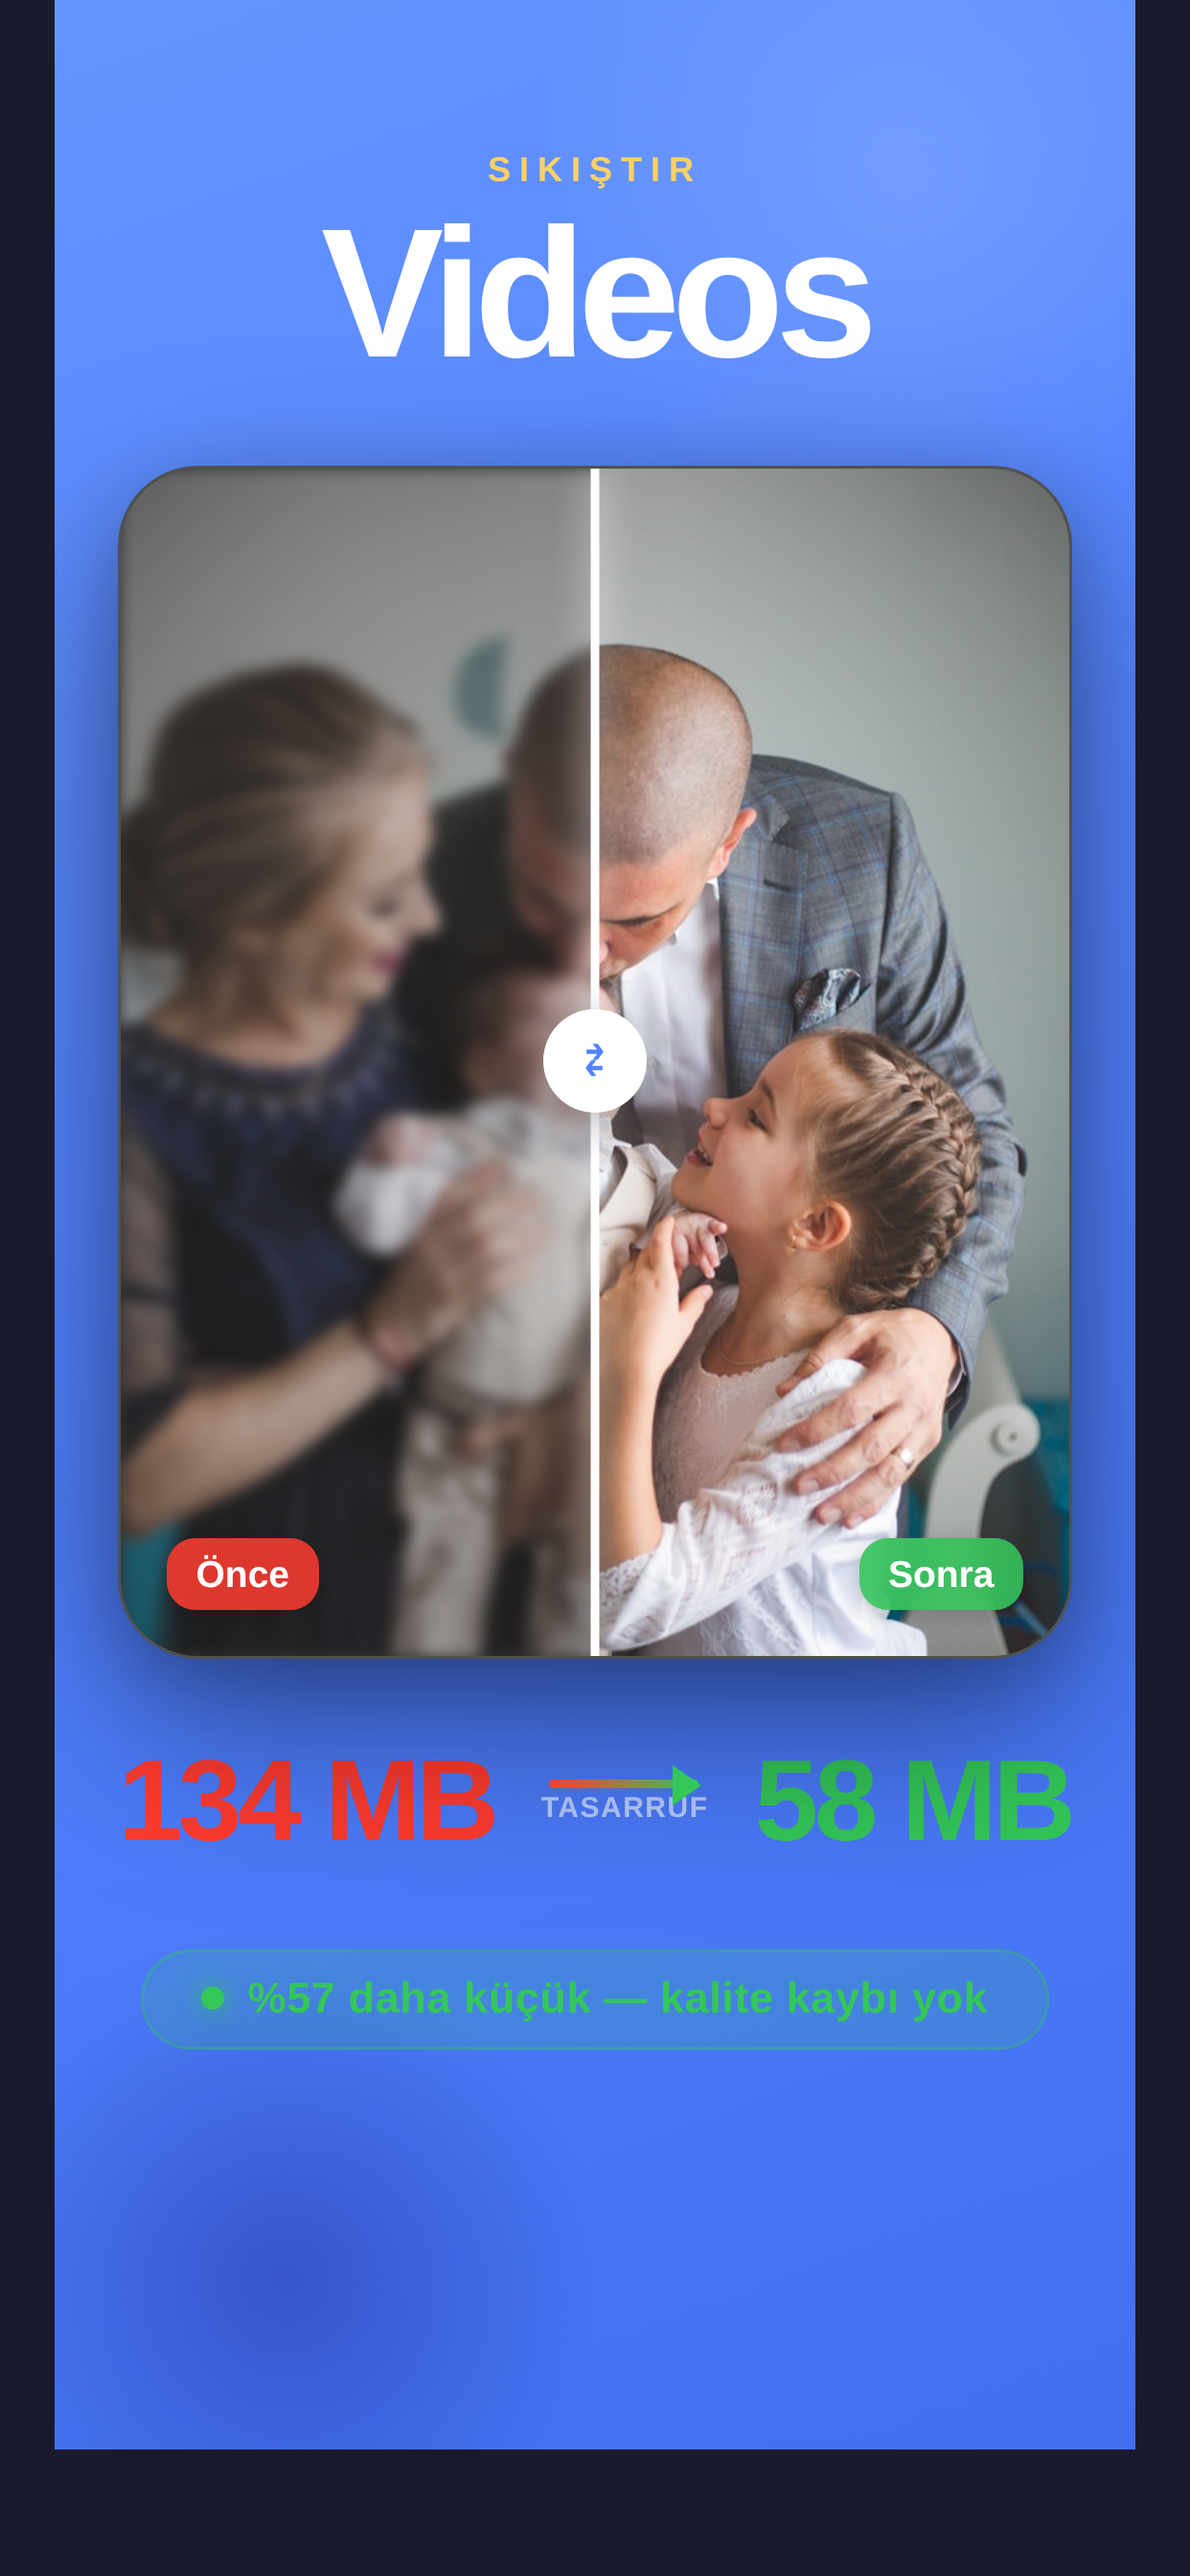
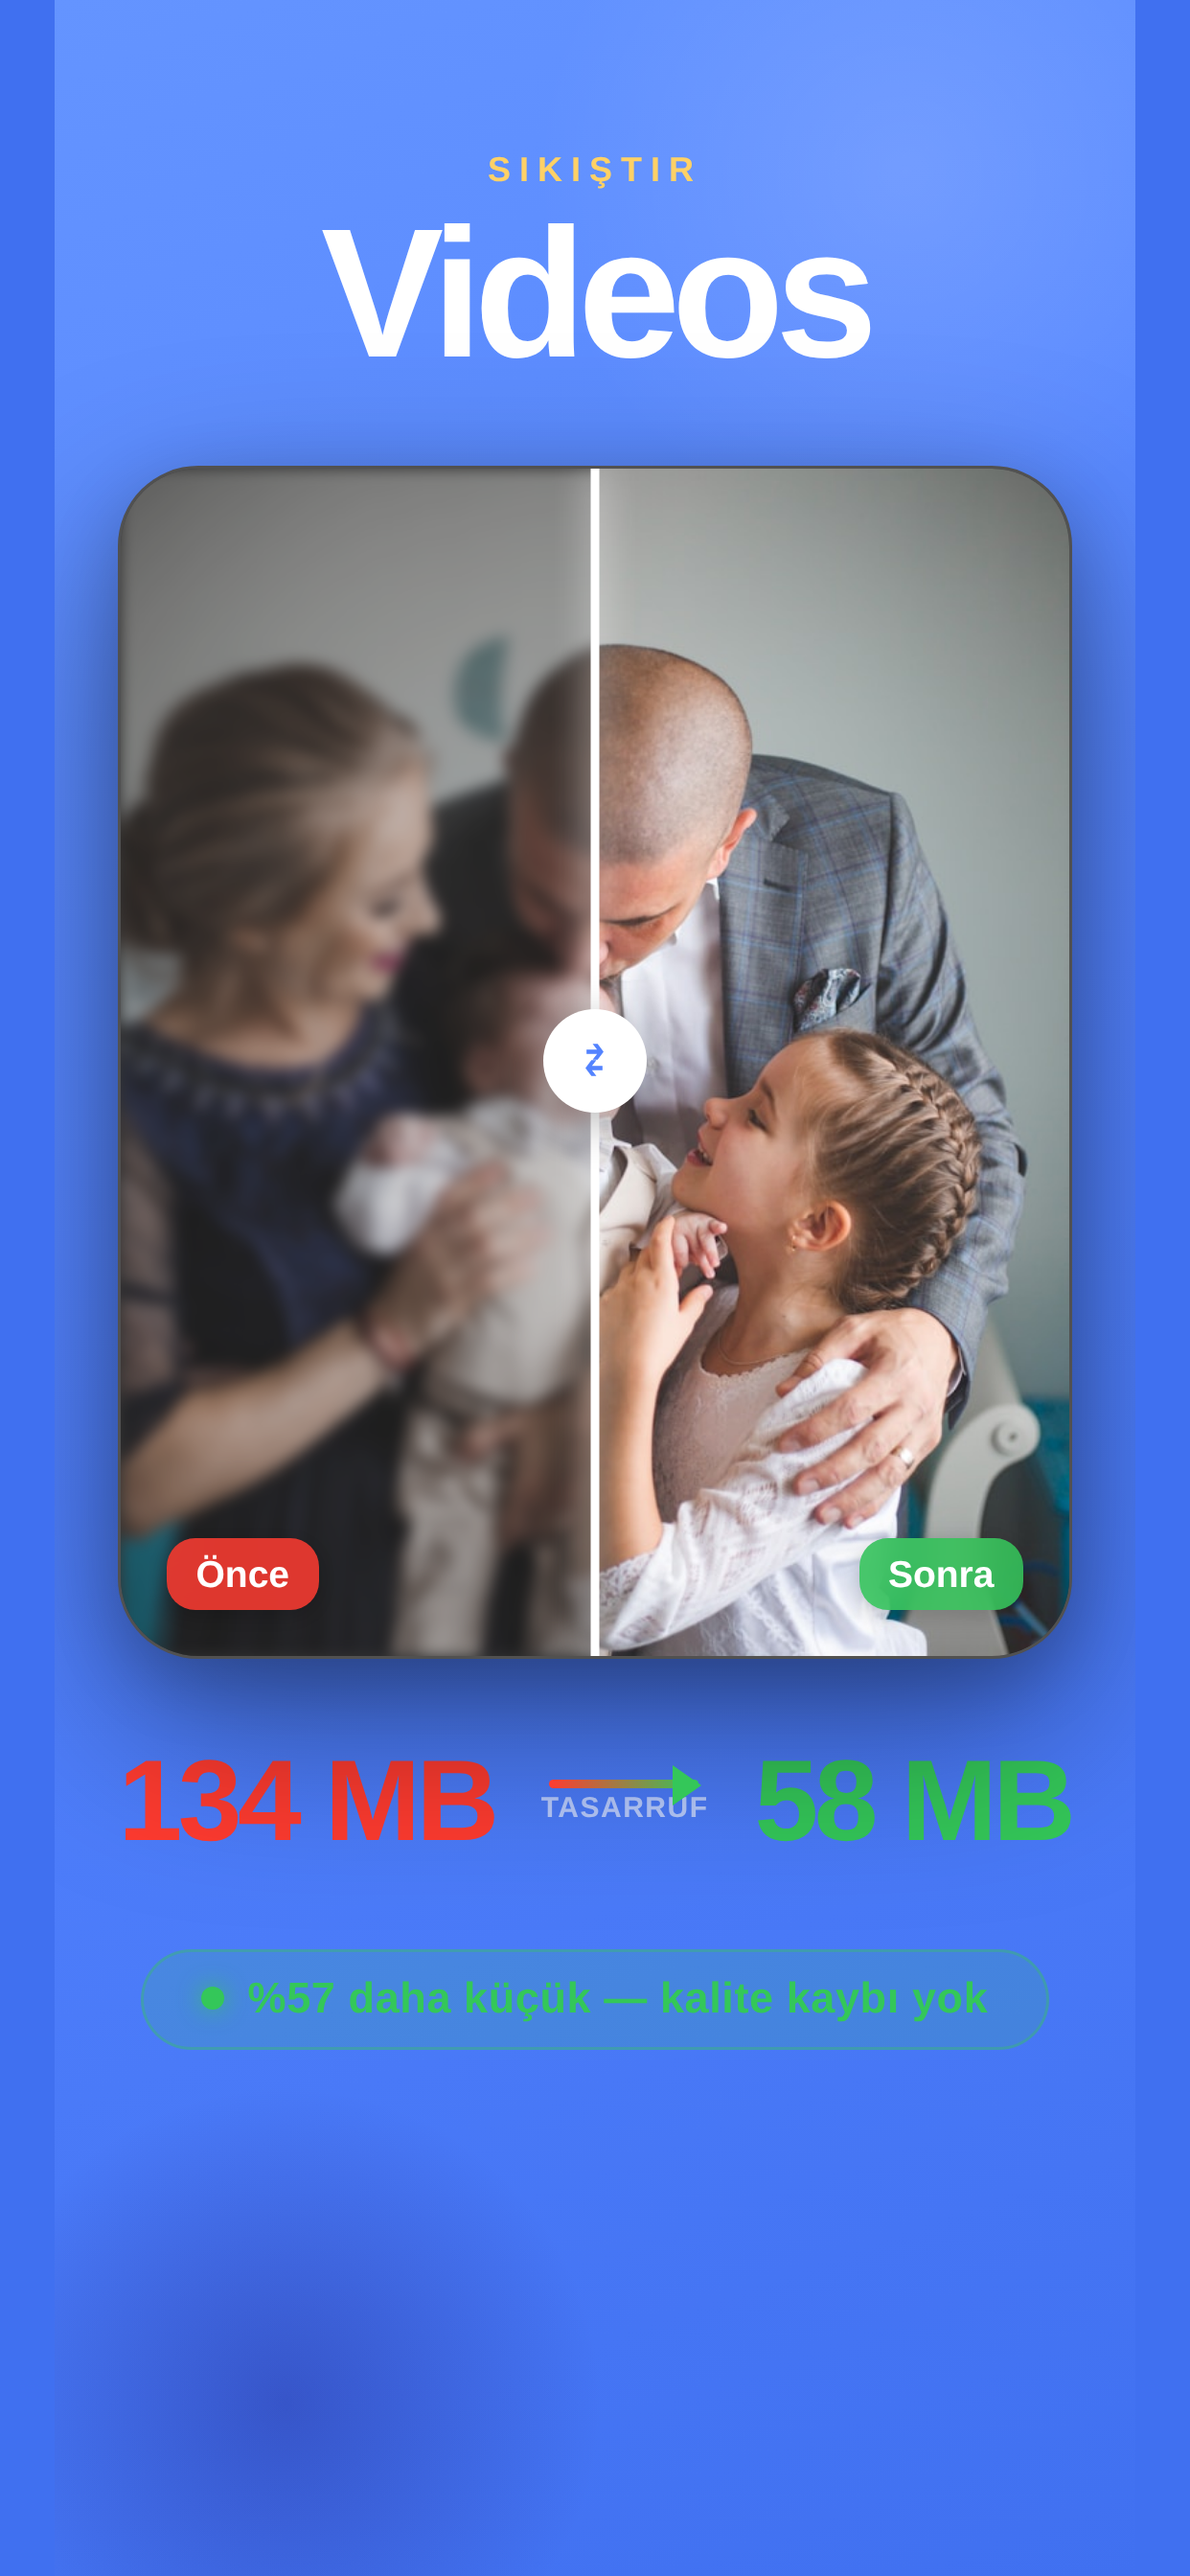
fix: schwarze Balken — body background auf #4070f0 + min-height: 100vh, alle 15 Slides neu gerendert

Changed region(s): [[0.0, 0.0, 1.0, 1.0]]

diff --git a/frontend/assets/screenshot_slide4.html b/frontend/assets/screenshot_slide4.html
@@ -6,12 +6,12 @@
 <style>
   *, *::before, *::after { margin:0; padding:0; box-sizing:border-box; }
   html, body {
-    background: #1a1a2e;
+    background: #4070f0;
     display: flex; justify-content: center;
-    min-height: 852px;
+    min-height: 100vh;
   }
   .phone {
-    width: 100%; min-height: 852px;
+    width: 100%; min-height: 100vh;
     background: linear-gradient(160deg, #6494ff 0%, #5383ff 45%, #4070f0 100%);
     position: relative; overflow: hidden;
     font-family: -apple-system, 'SF Pro Display', 'Helvetica Neue', sans-serif;

diff --git a/frontend/assets/screenshot_slide4_en.html b/frontend/assets/screenshot_slide4_en.html
@@ -6,12 +6,12 @@
 <style>
   *, *::before, *::after { margin:0; padding:0; box-sizing:border-box; }
   html, body {
-    background: #1a1a2e;
+    background: #4070f0;
     display: flex; justify-content: center;
-    min-height: 852px;
+    min-height: 100vh;
   }
   .phone {
-    width: 100%; min-height: 852px;
+    width: 100%; min-height: 100vh;
     background: linear-gradient(160deg, #6494ff 0%, #5383ff 45%, #4070f0 100%);
     position: relative; overflow: hidden;
     font-family: -apple-system, 'SF Pro Display', 'Helvetica Neue', sans-serif;

diff --git a/frontend/assets/screenshot_slide4_tr.html b/frontend/assets/screenshot_slide4_tr.html
@@ -6,12 +6,12 @@
 <style>
   *, *::before, *::after { margin:0; padding:0; box-sizing:border-box; }
   html, body {
-    background: #1a1a2e;
+    background: #4070f0;
     display: flex; justify-content: center;
-    min-height: 852px;
+    min-height: 100vh;
   }
   .phone {
-    width: 100%; min-height: 852px;
+    width: 100%; min-height: 100vh;
     background: linear-gradient(160deg, #6494ff 0%, #5383ff 45%, #4070f0 100%);
     position: relative; overflow: hidden;
     font-family: -apple-system, 'SF Pro Display', 'Helvetica Neue', sans-serif;

diff --git a/frontend/assets/screenshot_slide5.html b/frontend/assets/screenshot_slide5.html
@@ -6,12 +6,12 @@
 <style>
   *, *::before, *::after { margin:0; padding:0; box-sizing:border-box; }
   html, body {
-    background: #1a1a2e;
+    background: #4070f0;
     display: flex; justify-content: center;
-    min-height: 852px;
+    min-height: 100vh;
   }
   .phone {
-    width: 100%; min-height: 852px;
+    width: 100%; min-height: 100vh;
     background: linear-gradient(160deg, #6494ff 0%, #5383ff 45%, #4070f0 100%);
     position: relative; overflow: hidden;
     font-family: -apple-system, 'SF Pro Display', 'Helvetica Neue', sans-serif;

diff --git a/frontend/assets/screenshot_slide5_en.html b/frontend/assets/screenshot_slide5_en.html
@@ -6,12 +6,12 @@
 <style>
   *, *::before, *::after { margin:0; padding:0; box-sizing:border-box; }
   html, body {
-    background: #1a1a2e;
+    background: #4070f0;
     display: flex; justify-content: center;
-    min-height: 852px;
+    min-height: 100vh;
   }
   .phone {
-    width: 100%; min-height: 852px;
+    width: 100%; min-height: 100vh;
     background: linear-gradient(160deg, #6494ff 0%, #5383ff 45%, #4070f0 100%);
     position: relative; overflow: hidden;
     font-family: -apple-system, 'SF Pro Display', 'Helvetica Neue', sans-serif;

diff --git a/frontend/assets/screenshot_slide5_tr.html b/frontend/assets/screenshot_slide5_tr.html
@@ -6,12 +6,12 @@
 <style>
   *, *::before, *::after { margin:0; padding:0; box-sizing:border-box; }
   html, body {
-    background: #1a1a2e;
+    background: #4070f0;
     display: flex; justify-content: center;
-    min-height: 852px;
+    min-height: 100vh;
   }
   .phone {
-    width: 100%; min-height: 852px;
+    width: 100%; min-height: 100vh;
     background: linear-gradient(160deg, #6494ff 0%, #5383ff 45%, #4070f0 100%);
     position: relative; overflow: hidden;
     font-family: -apple-system, 'SF Pro Display', 'Helvetica Neue', sans-serif;

diff --git a/frontend/assets/screenshot_slide2.html b/frontend/assets/screenshot_slide2.html
@@ -7,15 +7,15 @@
   *, *::before, *::after { margin:0; padding:0; box-sizing:border-box; }
 
   html, body {
-    background: #1a1a2e;
+    background: #4070f0;
     display: flex;
     justify-content: center;
-    min-height: 852px;
+    min-height: 100vh;
   }
 
   .phone {
     width: 100%;
-    min-height: 852px;
+    min-height: 100vh;
     background: linear-gradient(160deg, #6494ff 0%, #5383ff 40%, #4070f0 100%);
     position: relative;
     overflow: hidden;

diff --git a/frontend/assets/screenshot_slide2_en.html b/frontend/assets/screenshot_slide2_en.html
@@ -7,15 +7,15 @@
   *, *::before, *::after { margin:0; padding:0; box-sizing:border-box; }
 
   html, body {
-    background: #1a1a2e;
+    background: #4070f0;
     display: flex;
     justify-content: center;
-    min-height: 852px;
+    min-height: 100vh;
   }
 
   .phone {
     width: 100%;
-    min-height: 852px;
+    min-height: 100vh;
     background: linear-gradient(160deg, #6494ff 0%, #5383ff 40%, #4070f0 100%);
     position: relative;
     overflow: hidden;

diff --git a/frontend/assets/screenshot_slide2_tr.html b/frontend/assets/screenshot_slide2_tr.html
@@ -7,15 +7,15 @@
   *, *::before, *::after { margin:0; padding:0; box-sizing:border-box; }
 
   html, body {
-    background: #1a1a2e;
+    background: #4070f0;
     display: flex;
     justify-content: center;
-    min-height: 852px;
+    min-height: 100vh;
   }
 
   .phone {
     width: 100%;
-    min-height: 852px;
+    min-height: 100vh;
     background: linear-gradient(160deg, #6494ff 0%, #5383ff 40%, #4070f0 100%);
     position: relative;
     overflow: hidden;

diff --git a/frontend/assets/screenshot_slide3.html b/frontend/assets/screenshot_slide3.html
@@ -7,15 +7,15 @@
   *, *::before, *::after { margin:0; padding:0; box-sizing:border-box; }
 
   html, body {
-    background: #1a1a2e;
+    background: #4070f0;
     display: flex;
     justify-content: center;
-    min-height: 852px;
+    min-height: 100vh;
   }
 
   .phone {
     width: 100%;
-    min-height: 852px;
+    min-height: 100vh;
     background: linear-gradient(160deg, #6494ff 0%, #5383ff 45%, #4070f0 100%);
     position: relative;
     overflow: hidden;

diff --git a/frontend/assets/screenshot_slide3_en.html b/frontend/assets/screenshot_slide3_en.html
@@ -7,15 +7,15 @@
   *, *::before, *::after { margin:0; padding:0; box-sizing:border-box; }
 
   html, body {
-    background: #1a1a2e;
+    background: #4070f0;
     display: flex;
     justify-content: center;
-    min-height: 852px;
+    min-height: 100vh;
   }
 
   .phone {
     width: 100%;
-    min-height: 852px;
+    min-height: 100vh;
     background: linear-gradient(160deg, #6494ff 0%, #5383ff 45%, #4070f0 100%);
     position: relative;
     overflow: hidden;

diff --git a/frontend/assets/screenshot_slide3_tr.html b/frontend/assets/screenshot_slide3_tr.html
@@ -7,15 +7,15 @@
   *, *::before, *::after { margin:0; padding:0; box-sizing:border-box; }
 
   html, body {
-    background: #1a1a2e;
+    background: #4070f0;
     display: flex;
     justify-content: center;
-    min-height: 852px;
+    min-height: 100vh;
   }
 
   .phone {
     width: 100%;
-    min-height: 852px;
+    min-height: 100vh;
     background: linear-gradient(160deg, #6494ff 0%, #5383ff 45%, #4070f0 100%);
     position: relative;
     overflow: hidden;
